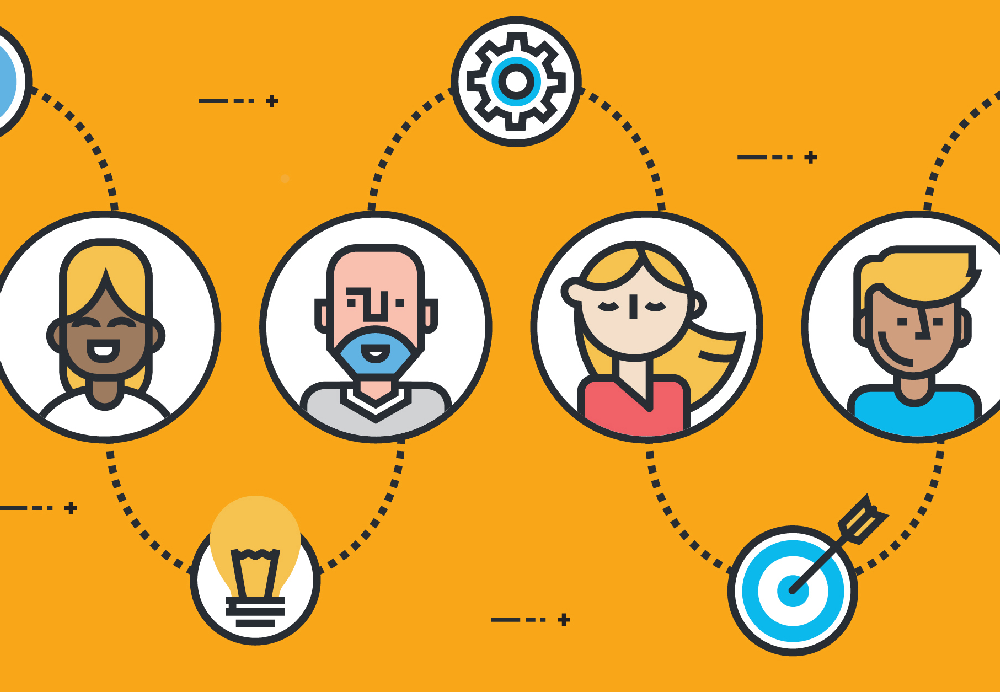
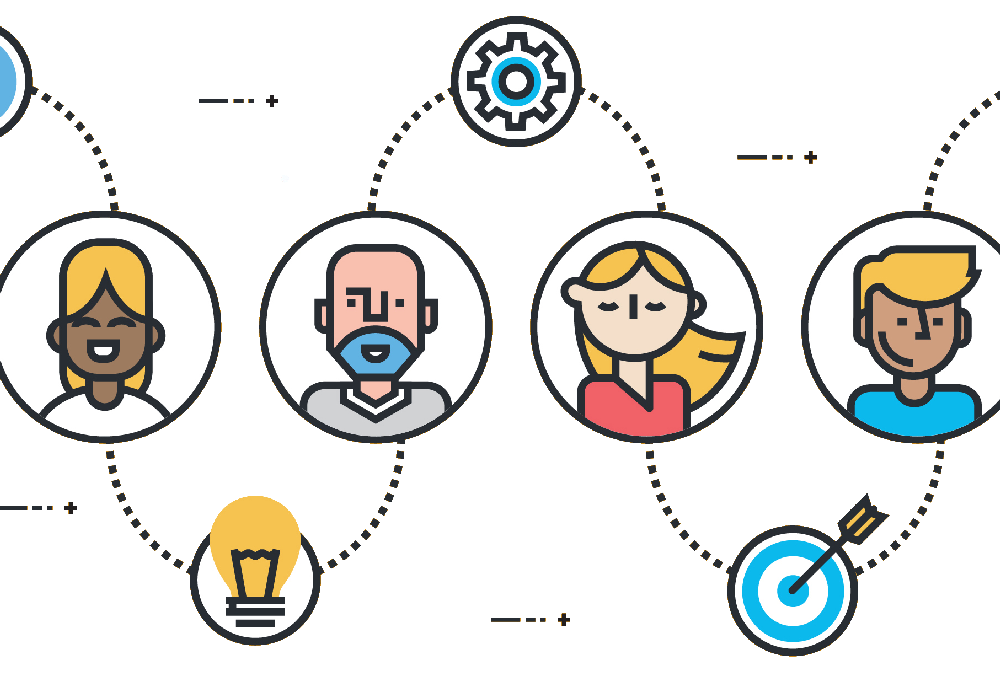
Fit the home-page title in every language, and remove the art's seam
The cover title now sizes itself from its longest word, so "FONDAMENTAUX" and
"FUNDAMENTALES" fit their column instead of running under the illustration.
Measured at 390, 768, 1280, and 1600 px wide in English, Spanish, and French:
every title fits, with no sideways scrolling.

The illustration's orange background is now transparent, so the hero's own
orange shows through and no seam appears where the two oranges met. Link
previews use a new social.jpg that keeps the orange.

diff --git a/assets/css/site.css b/assets/css/site.css
@@ -108,11 +108,14 @@ h1, h2, h3, h4 { font-family: var(--heading); color: var(--ink); line-height: 1.
 /* Home: cover-style hero */
 .home-hero { background: var(--orange); overflow: hidden; }
 .home-hero-inner { display: grid; grid-template-columns: minmax(0, 1fr) minmax(0, 1.1fr); align-items: center; gap: 2rem; padding-top: 3rem; }
-.cover-title { margin: 0; color: #fff; font-weight: 800; text-transform: uppercase; font-size: clamp(2.6rem, 6.5vw, 5rem); line-height: .95; letter-spacing: -.01em; }
+.home-hero-text { container-type: inline-size; min-width: 0; }
+/* Size the title so its longest word fills the column at most: Poppins 800
+   capitals average about 0.8em wide. */
+.cover-title { margin: 0; color: #fff; font-weight: 800; text-transform: uppercase; font-size: min(5rem, calc(100cqi / (var(--longest, 9) * 0.8))); line-height: .95; letter-spacing: -.01em; overflow-wrap: normal; }
 .cover-title span { display: block; color: transparent; -webkit-text-stroke: 2px #fff; paint-order: stroke fill; }
 @supports not (-webkit-text-stroke: 2px #fff) { .cover-title span { color: #fff; } }
 .cover-sub { color: var(--ink); font-family: var(--heading); font-size: clamp(1.05rem, 2vw, 1.3rem); margin: 1.25rem 0 2.5rem; max-width: 26rem; }
-.home-hero-art { display: block; align-self: end; width: 100%; }
+.home-hero-art { display: block; align-self: end; width: 100%; } /* transparent background: the hero's orange shows through */
 .cover-band { background: var(--cyan); color: var(--ink); font-family: var(--heading); font-weight: 600; text-align: center; padding: 1rem 0; }
 
 .home-section { padding: 2.5rem 0 .5rem; }

diff --git a/_layouts/home.html b/_layouts/home.html
@@ -7,7 +7,11 @@
 {% include header.html %}
 <section class="home-hero">
   <div class="wrap home-hero-inner">
-    <div class="home-hero-text">
+    {% comment %} The title's size follows its longest word, so "FONDAMENTAUX" fits as well as "CORE". {% endcomment %}
+    {% assign words = page.title_top | append: " " | append: page.title_bottom | split: " " %}
+    {% assign longest = 4 %}
+    {% for word in words %}{% if word.size > longest %}{% assign longest = word.size %}{% endif %}{% endfor %}
+    <div class="home-hero-text" style="--longest: {{ longest }}">
       <h1 class="cover-title">{{ page.title_top }}<span>{{ page.title_bottom }}</span></h1>
       <p class="cover-sub">{{ page.subtitle }}</p>
     </div>

diff --git a/_includes/head.html b/_includes/head.html
@@ -7,7 +7,7 @@
 <link rel="canonical" href="{{ site.url }}{{ page.url | replace: 'index.html', '' }}">
 <meta property="og:title" content="{{ full_title | escape }}">
 <meta property="og:description" content="{{ desc | escape }}">
-<meta property="og:image" content="{{ site.url }}/assets/images/people.png">
+<meta property="og:image" content="{{ site.url }}/assets/images/social.jpg">
 <link rel="icon" href="{{ '/assets/images/favicon.svg' | relative_url }}" type="image/svg+xml">
 <link rel="preconnect" href="https://fonts.googleapis.com">
 <link rel="preconnect" href="https://fonts.gstatic.com" crossorigin>
